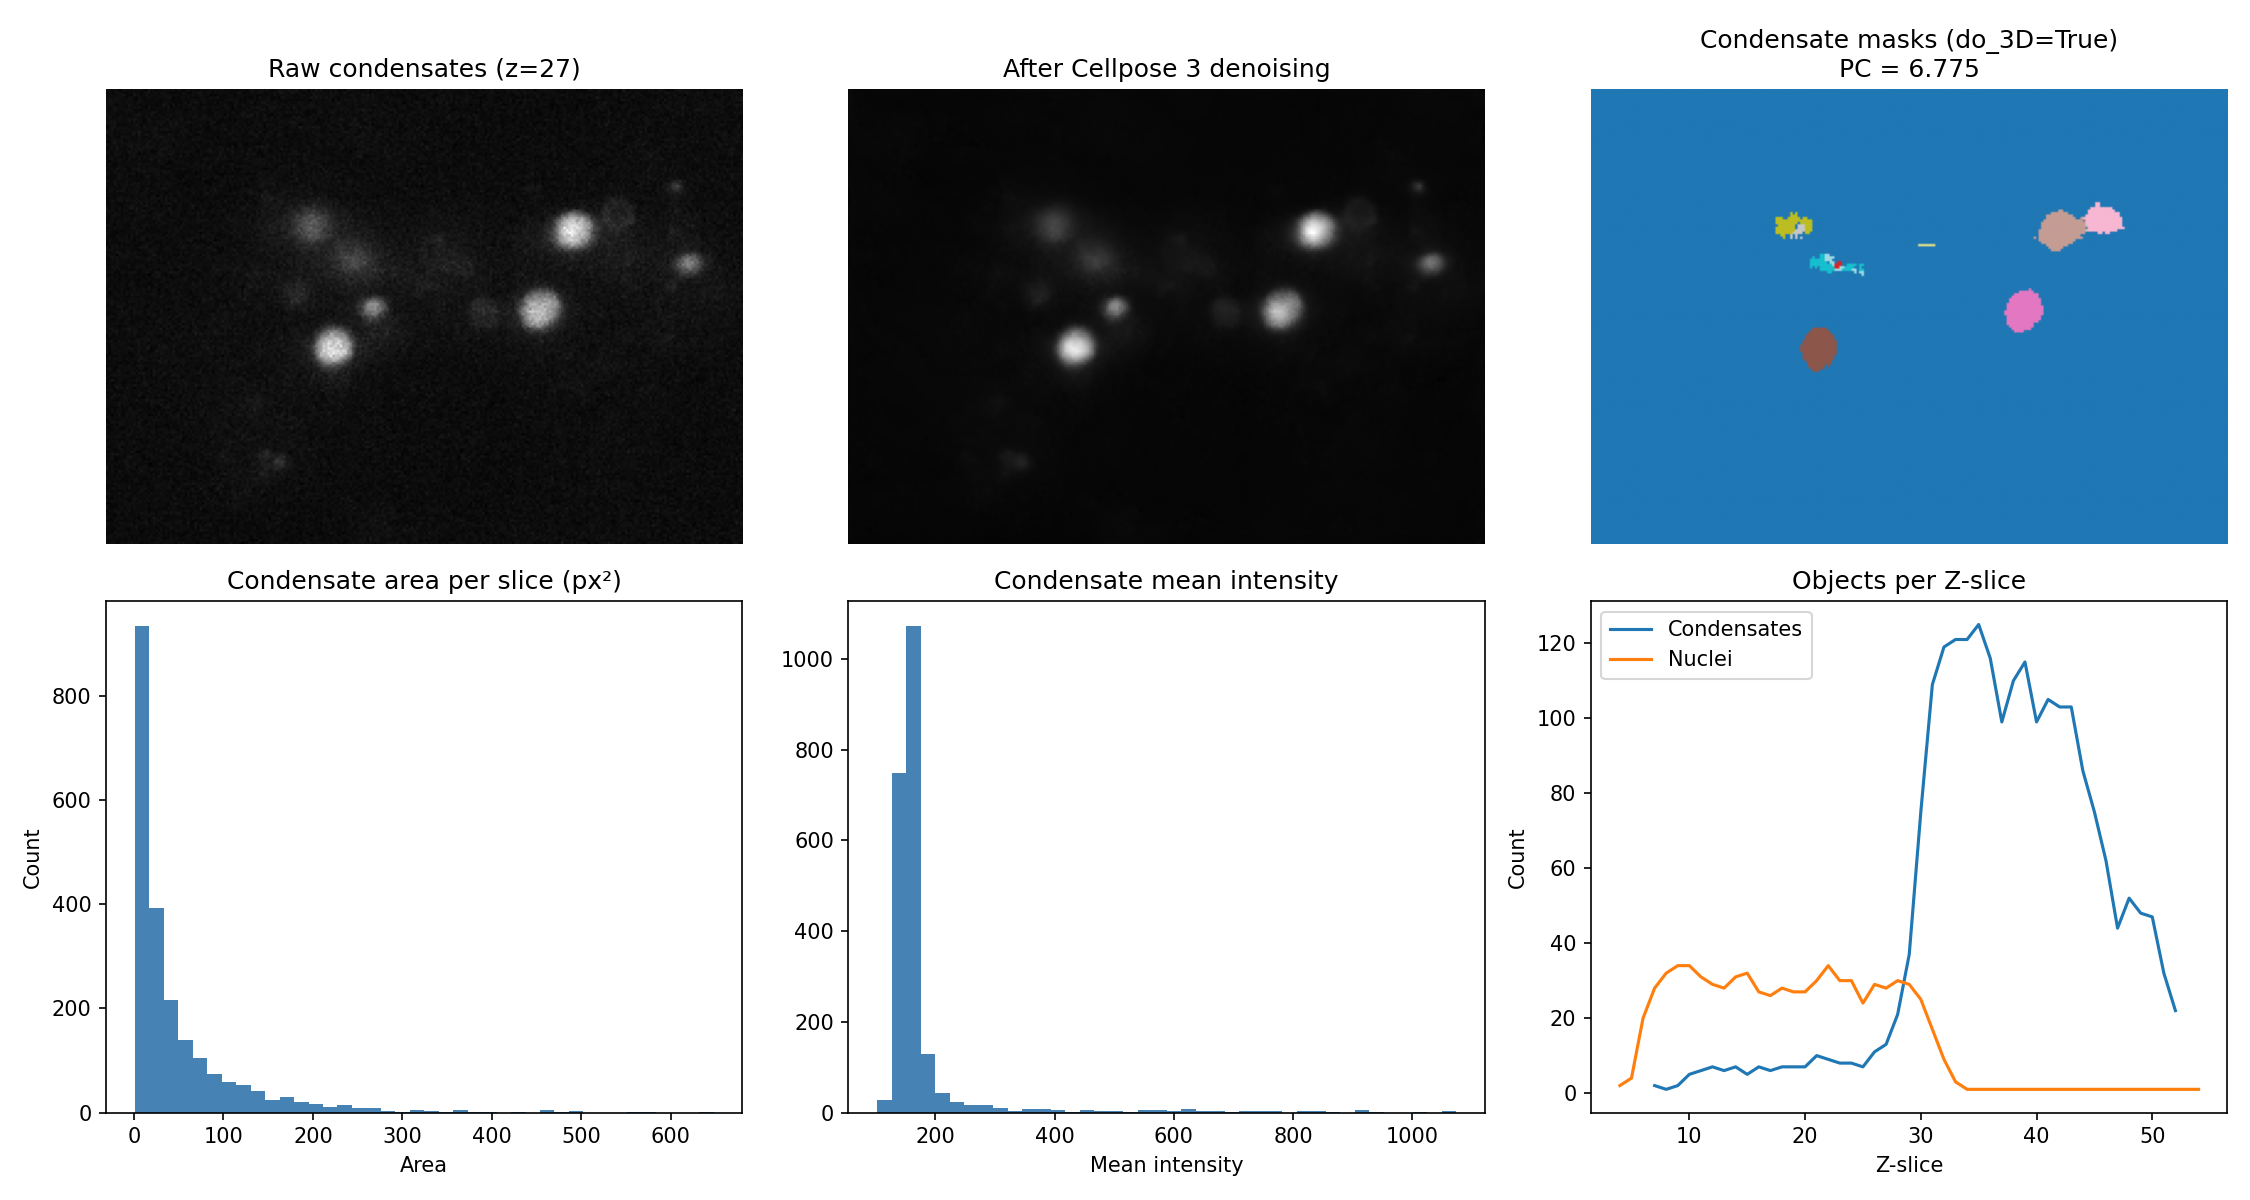
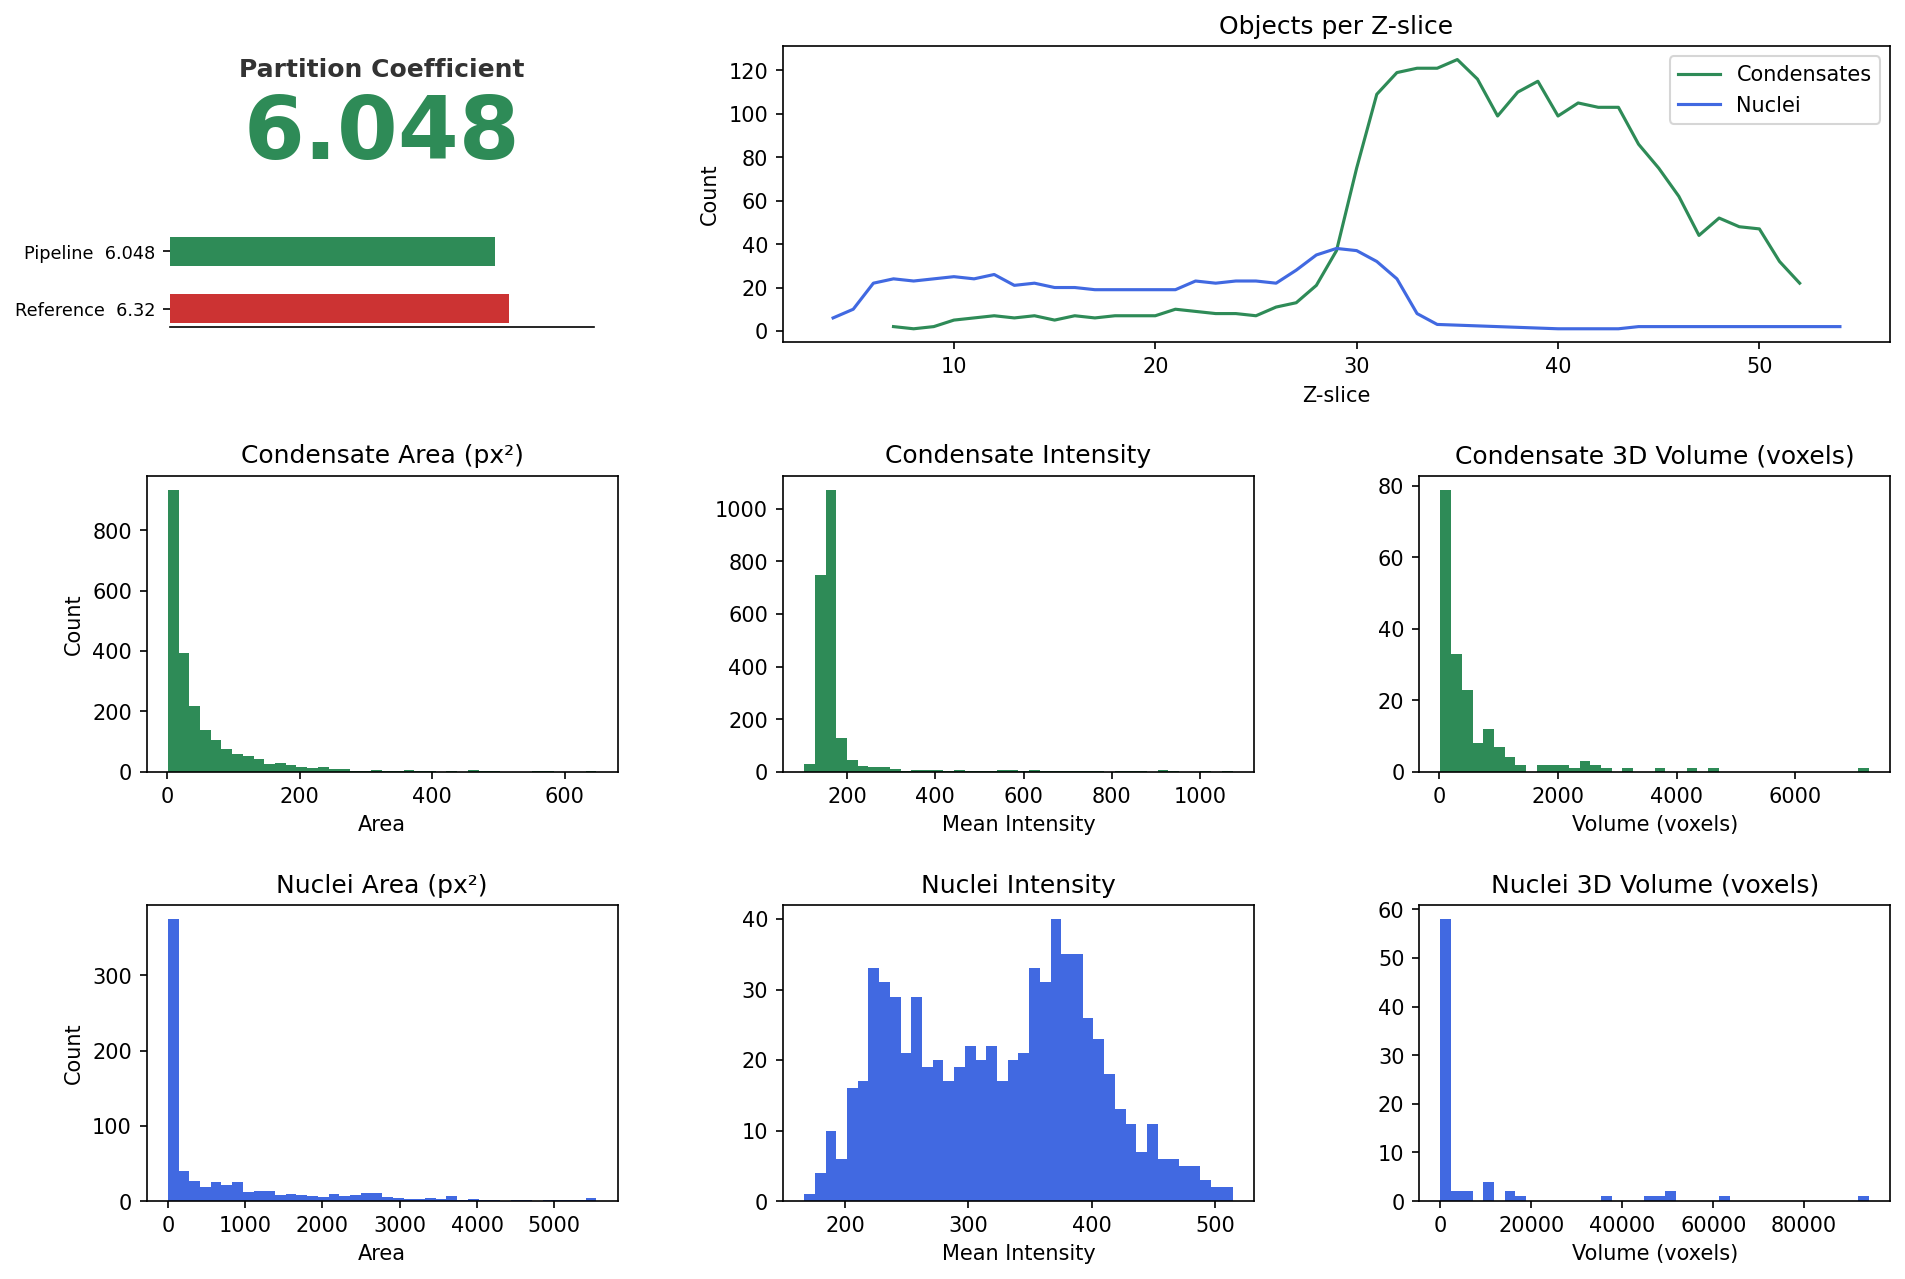
Redesign results figure: direct PC scorecard, consistent row ordering
Replace single-bar PC chart with a scorecard panel (large number +
Pipeline vs Reference horizontal bars). Reorder histograms so all
condensate plots occupy row 2 and all nuclei plots occupy row 3.
Add Condensate/Nuclei 3D Volume histograms. PC updated to 6.048.

diff --git a/spring_implementation/pipeline.py b/spring_implementation/pipeline.py
@@ -35,6 +35,7 @@ import numpy as np
 import pandas as pd
 import tifffile as tiff
 import matplotlib.pyplot as plt
+from matplotlib.gridspec import GridSpec
 from skimage.measure import regionprops_table
 
 import torch
@@ -269,48 +270,98 @@ def save_outputs(
 
 # ── Step 8: Visualisation ─────────────────────────────────────────────────────
 
+_COND_COLOR = "#2e8b57"   # green for condensates
+_NUC_COLOR  = "#4169e1"   # blue for nuclei
+_REFERENCE  = 6.32
+
+
 def plot_summary(
     output_dir: Path,
-    cond_stack, cond_restored, cond_masks_3d,
     cond_df, nuc_df,
+    cond_vol_df, nuc_vol_df,
     pc_result: dict,
 ):
-    """Save a 2×3 summary figure to output_dir/results.png."""
-    mid_z = cond_stack.shape[0] // 2
-    fig, axs = plt.subplots(2, 3, figsize=(15, 8))
+    """
+    Save a 3×3 summary figure to output_dir/results.png.
 
-    axs[0, 0].imshow(cond_stack[mid_z], cmap="gray")
-    axs[0, 0].set_title(f"Raw condensates (z={mid_z})")
-    axs[0, 0].axis("off")
+    Layout:
+      Row 0: [PC scorecard] [Objects per Z-slice ── spans 2 cols ──────────]
+      Row 1: [Condensate Area] [Condensate Intensity] [Condensate 3D Volume]
+      Row 2: [Nuclei Area]     [Nuclei Intensity]     [Nuclei 3D Volume]
+    """
+    fig = plt.figure(figsize=(15, 10))
+    gs  = GridSpec(3, 3, figure=fig, hspace=0.45, wspace=0.35)
 
-    axs[0, 1].imshow(cond_restored[mid_z], cmap="gray")
-    axs[0, 1].set_title("After Cellpose 3 denoising")
-    axs[0, 1].axis("off")
+    ax_pc  = fig.add_subplot(gs[0, 0])
+    ax_obj = fig.add_subplot(gs[0, 1:])
+    ax_ca  = fig.add_subplot(gs[1, 0])
+    ax_ci  = fig.add_subplot(gs[1, 1])
+    ax_cv  = fig.add_subplot(gs[1, 2])
+    ax_na  = fig.add_subplot(gs[2, 0])
+    ax_ni  = fig.add_subplot(gs[2, 1])
+    ax_nv  = fig.add_subplot(gs[2, 2])
 
-    axs[0, 2].imshow(cond_masks_3d[mid_z], cmap="tab20")
-    axs[0, 2].set_title(f"Condensate masks (do_3D=True)\nPC = {pc_result['pc']:.3f}")
-    axs[0, 2].axis("off")
+    # ── PC scorecard ──────────────────────────────────────────────────────────
+    pc_val = pc_result["pc"]
+    ax_pc.axis("off")
+    ax_pc.text(0.5, 0.96, "Partition Coefficient",
+               ha="center", va="top", fontsize=12, fontweight="bold",
+               transform=ax_pc.transAxes, color="#333333")
+    ax_pc.text(0.5, 0.70, f"{pc_val:.3f}",
+               ha="center", va="center", fontsize=42, fontweight="bold",
+               color=_COND_COLOR, transform=ax_pc.transAxes)
 
-    axs[1, 0].hist(cond_df["area"], bins=40, color="steelblue")
-    axs[1, 0].set_title("Condensate area per slice (px²)")
-    axs[1, 0].set_xlabel("Area")
-    axs[1, 0].set_ylabel("Count")
+    bar = ax_pc.inset_axes([0.05, 0.05, 0.90, 0.32])
+    bar.barh(1, pc_val,     color=_COND_COLOR, height=0.5)
+    bar.barh(0, _REFERENCE, color="#cc3333",   height=0.5)
+    bar.set_yticks([0, 1])
+    bar.set_yticklabels(
+        [f"Reference  {_REFERENCE:.2f}", f"Pipeline  {pc_val:.3f}"],
+        fontsize=8.5,
+    )
+    bar.set_xlim(0, max(pc_val, _REFERENCE) * 1.25)
+    bar.xaxis.set_visible(False)
+    bar.spines[["top", "right", "left"]].set_visible(False)
 
-    axs[1, 1].hist(cond_df["mean_intensity"], bins=40, color="steelblue")
-    axs[1, 1].set_title("Condensate mean intensity")
-    axs[1, 1].set_xlabel("Mean intensity")
-
+    # ── Objects per Z-slice ───────────────────────────────────────────────────
     cond_counts = cond_df.groupby("z")["label"].count()
     nuc_counts  = nuc_df.groupby("z")["label"].count()
-    axs[1, 2].plot(cond_counts.index, cond_counts.values, label="Condensates")
-    axs[1, 2].plot(nuc_counts.index,  nuc_counts.values,  label="Nuclei")
-    axs[1, 2].set_title("Objects per Z-slice")
-    axs[1, 2].set_xlabel("Z-slice")
-    axs[1, 2].set_ylabel("Count")
-    axs[1, 2].legend()
+    ax_obj.plot(cond_counts.index, cond_counts.values, color=_COND_COLOR, label="Condensates")
+    ax_obj.plot(nuc_counts.index,  nuc_counts.values,  color=_NUC_COLOR,  label="Nuclei")
+    ax_obj.set_title("Objects per Z-slice")
+    ax_obj.set_xlabel("Z-slice")
+    ax_obj.set_ylabel("Count")
+    ax_obj.legend()
 
-    plt.tight_layout()
-    plt.savefig(output_dir / "results.png", dpi=150)
+    # ── Condensate row ────────────────────────────────────────────────────────
+    ax_ca.hist(cond_df["area"],           bins=40, color=_COND_COLOR)
+    ax_ca.set_title("Condensate Area (px²)")
+    ax_ca.set_xlabel("Area")
+    ax_ca.set_ylabel("Count")
+
+    ax_ci.hist(cond_df["mean_intensity"], bins=40, color=_COND_COLOR)
+    ax_ci.set_title("Condensate Intensity")
+    ax_ci.set_xlabel("Mean Intensity")
+
+    ax_cv.hist(cond_vol_df["volume_voxels"], bins=40, color=_COND_COLOR)
+    ax_cv.set_title("Condensate 3D Volume (voxels)")
+    ax_cv.set_xlabel("Volume (voxels)")
+
+    # ── Nuclei row ────────────────────────────────────────────────────────────
+    ax_na.hist(nuc_df["area"],           bins=40, color=_NUC_COLOR)
+    ax_na.set_title("Nuclei Area (px²)")
+    ax_na.set_xlabel("Area")
+    ax_na.set_ylabel("Count")
+
+    ax_ni.hist(nuc_df["mean_intensity"], bins=40, color=_NUC_COLOR)
+    ax_ni.set_title("Nuclei Intensity")
+    ax_ni.set_xlabel("Mean Intensity")
+
+    ax_nv.hist(nuc_vol_df["volume_voxels"], bins=40, color=_NUC_COLOR)
+    ax_nv.set_title("Nuclei 3D Volume (voxels)")
+    ax_nv.set_xlabel("Volume (voxels)")
+
+    plt.savefig(output_dir / "results.png", dpi=150, bbox_inches="tight")
     plt.close()
 
 
@@ -371,7 +422,7 @@ def main():
         pc_result,
         args.voxel_xy, args.voxel_z,
     )
-    plot_summary(output_dir, cond_stack, cond_restored, cond_masks_3d, cond_df, nuc_df, pc_result)
+    plot_summary(output_dir, cond_df, nuc_df, cond_vol_df, nuc_vol_df, pc_result)
 
     print(f"\nAll outputs saved to: {output_dir}")
 